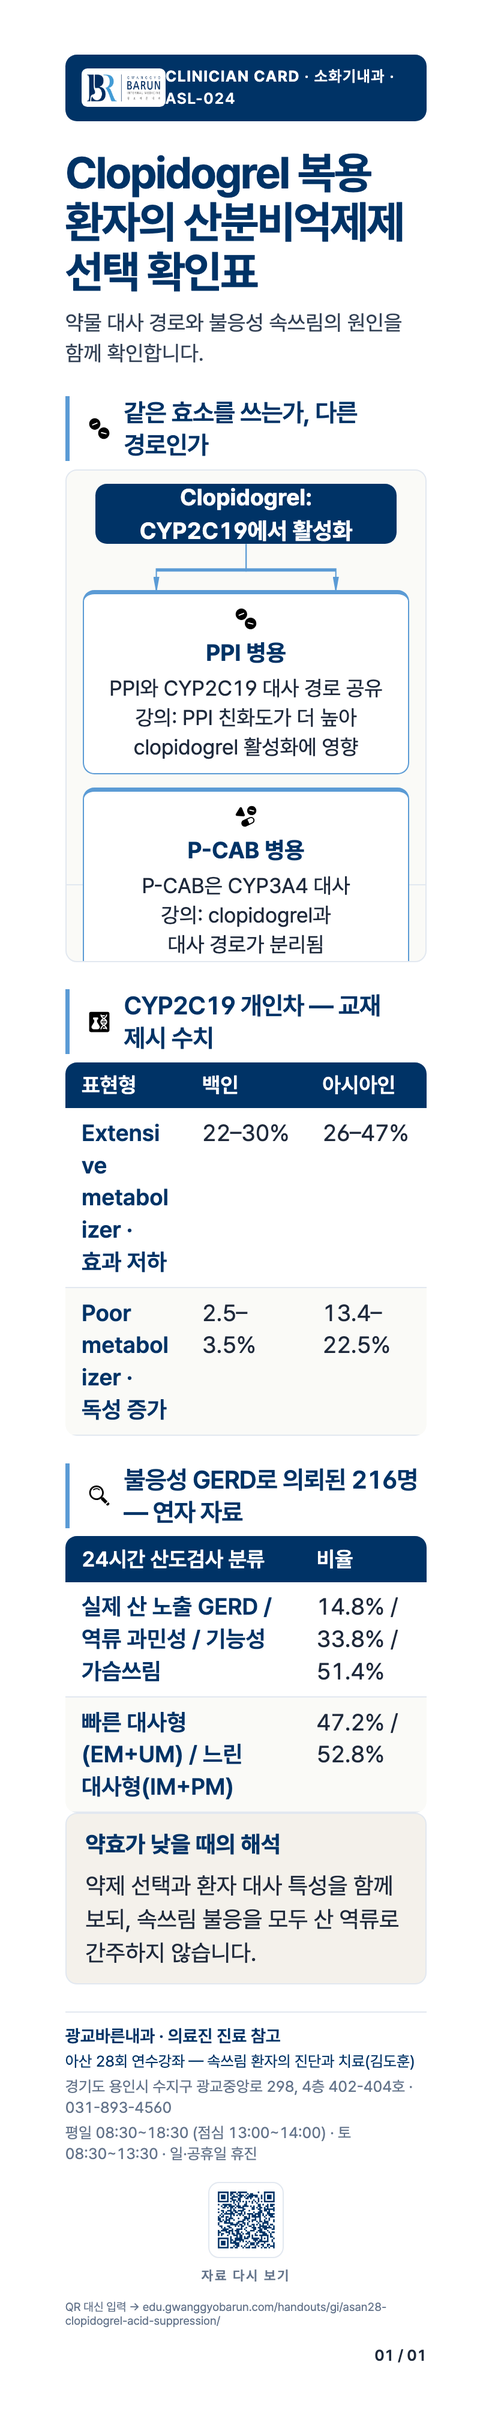
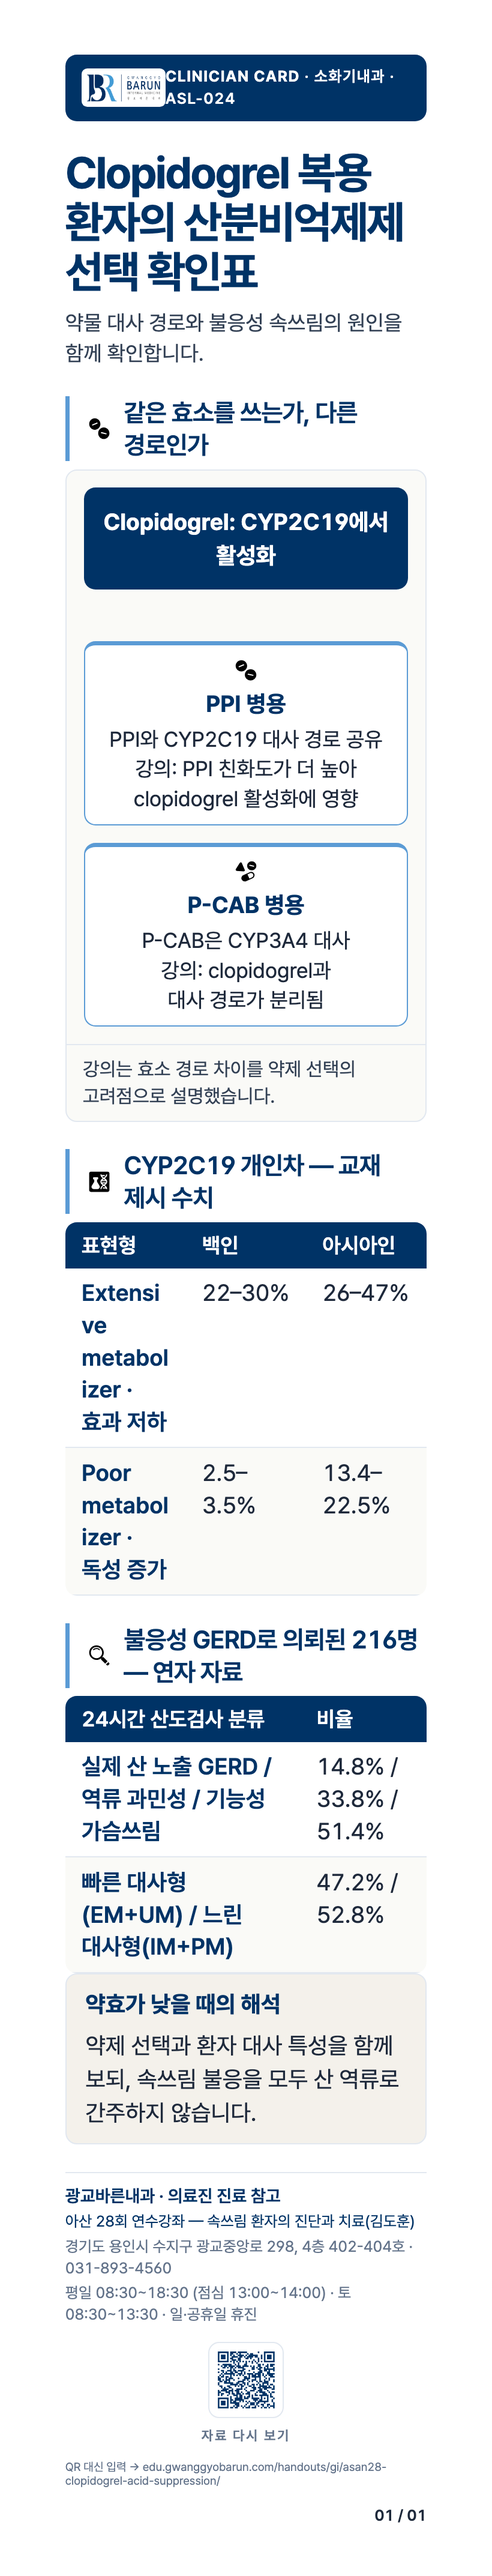
Deploy non-PHI education site 2026-11-03-1300 (417 PDFs, lab excluded)

diff --git a/handouts/gi/asan28-ibs-evaluation-referral/index.html b/handouts/gi/asan28-ibs-evaluation-referral/index.html
@@ -35,7 +35,7 @@ body[data-handout-phone] .page.page .hi{width:20px!important;height:20px!importa
 
 /* Connector geometry follows fixed HTML node tops, regardless of figure height. */
 .diagram>svg{height:100px}.flow-node{min-width:0}.flow-node p{min-width:0;max-width:100%}
-</style><!-- seo:geo2 --><meta name="robots" content="noindex,nofollow">
+/* CRH2-P-1: screen view (desktop, portal preview) - diagram follows content height so the last box and caption are not clipped; print/PDF unchanged */@media screen{body[data-handout-phone] .page.page .content-figure .diagram{position:relative!important;height:auto!important;display:flex!important;flex-direction:column;gap:12px!important}body[data-handout-phone] .page.page .content-figure .diagram>svg{display:none!important}body[data-handout-phone] .page.page .content-figure .flow-top,body[data-handout-phone] .page.page .content-figure .flow-branches{position:static!important;width:auto!important;height:auto!important;margin:12px!important;inset:auto!important}body[data-handout-phone] .page.page .content-figure .flow-top{padding:12px!important}body[data-handout-phone] .page.page .content-figure .flow-branches{display:grid!important;gap:12px!important}}</style><!-- seo:geo2 --><meta name="robots" content="noindex,nofollow">
 </head><body data-handout-phone><div class="page" data-item="ASL-031" data-page="1">
 <header class="page__header hdr"><img src="../../../shared/assets/clinic_logo.png" class="page__logo" alt="광교바른내과"><div class="page__eyebrow"><strong>CLINICIAN CARD</strong> · 소화기내과 · ASL-031</div></header>
 <section class="page__title-block"><h1 class="page__title">성인 IBS 초진·치료 실패 시 검사와 의뢰 선택표</h1><p class="page__subtitle">양성 진단(positive diagnosis)을 기본으로, 경고 증상과 치료 반응에 따라 검사를 고릅니다.</p></section>

diff --git a/handouts/gi/asan28-ibs-drug-reassessment/index.html b/handouts/gi/asan28-ibs-drug-reassessment/index.html
@@ -35,7 +35,7 @@ body[data-handout-phone] .page.page .hi{width:20px!important;height:20px!importa
 
 /* Connector geometry follows fixed HTML node tops, regardless of figure height. */
 .diagram>svg{height:100px}.flow-node{min-width:0}.flow-node p{min-width:0;max-width:100%}
-</style><!-- seo:geo2 --><meta name="robots" content="noindex,nofollow">
+/* CRH2-P-1: screen view (desktop, portal preview) - diagram follows content height so the last box and caption are not clipped; print/PDF unchanged */@media screen{body[data-handout-phone] .page.page .content-figure .diagram{position:relative!important;height:auto!important;display:flex!important;flex-direction:column;gap:12px!important}body[data-handout-phone] .page.page .content-figure .diagram>svg{display:none!important}body[data-handout-phone] .page.page .content-figure .flow-top,body[data-handout-phone] .page.page .content-figure .flow-branches{position:static!important;width:auto!important;height:auto!important;margin:12px!important;inset:auto!important}body[data-handout-phone] .page.page .content-figure .flow-top{padding:12px!important}body[data-handout-phone] .page.page .content-figure .flow-branches{display:grid!important;gap:12px!important}}</style><!-- seo:geo2 --><meta name="robots" content="noindex,nofollow">
 </head><body data-handout-phone><div class="page" data-item="ASL-032" data-page="1">
 <header class="page__header hdr"><img src="../../../shared/assets/clinic_logo.png" class="page__logo" alt="광교바른내과"><div class="page__eyebrow"><strong>CLINICIAN CARD</strong> · 소화기내과 · ASL-032</div></header>
 <section class="page__title-block"><h1 class="page__title">IBS 약제별 목표 증상·재평가·감량 기준표</h1><p class="page__subtitle">한 약제의 목표 증상을 먼저 정하고, 효과와 부작용으로 유지·감량을 판단합니다.</p></section>

diff --git a/handouts/gi/asan28-chronic-pancreatitis-followup/index.html b/handouts/gi/asan28-chronic-pancreatitis-followup/index.html
@@ -35,7 +35,7 @@ body[data-handout-phone] .page.page .hi{width:20px!important;height:20px!importa
 
 /* Connector geometry follows fixed HTML node tops, regardless of figure height. */
 .diagram>svg{height:100px}.flow-node{min-width:0}.flow-node p{min-width:0;max-width:100%}
-</style><!-- seo:geo2 --><meta name="robots" content="noindex,nofollow">
+/* CRH2-P-1: screen view (desktop, portal preview) - diagram follows content height so the last box and caption are not clipped; print/PDF unchanged */@media screen{body[data-handout-phone] .page.page .content-figure .diagram{position:relative!important;height:auto!important;display:flex!important;flex-direction:column;gap:12px!important}body[data-handout-phone] .page.page .content-figure .diagram>svg{display:none!important}body[data-handout-phone] .page.page .content-figure .flow-top,body[data-handout-phone] .page.page .content-figure .flow-branches{position:static!important;width:auto!important;height:auto!important;margin:12px!important;inset:auto!important}body[data-handout-phone] .page.page .content-figure .flow-top{padding:12px!important}body[data-handout-phone] .page.page .content-figure .flow-branches{display:grid!important;gap:12px!important}}</style><!-- seo:geo2 --><meta name="robots" content="noindex,nofollow">
 </head><body data-handout-phone><div class="page" data-item="ASL-030" data-page="1">
 <header class="page__header hdr"><img src="../../../shared/assets/clinic_logo.png" class="page__logo" alt="광교바른내과"><div class="page__eyebrow"><strong>CLINICIAN CARD</strong> · 소화기내과 · ASL-030</div></header>
 <section class="page__title-block"><h1 class="page__title">만성췌장염 외래 추적: 통증·영양·혈당·암 위험 신호</h1><p class="page__subtitle">통증만 보지 말고 외분비기능부전(EPI)·당뇨·암 위험을 함께 봅니다.</p></section>

diff --git a/handouts/gi/asan28-masld-fibrosis-referral/index.html b/handouts/gi/asan28-masld-fibrosis-referral/index.html
@@ -35,7 +35,7 @@ body[data-handout-phone] .page.page .hi{width:20px!important;height:20px!importa
 
 /* Connector geometry follows fixed HTML node tops, regardless of figure height. */
 .diagram>svg{height:100px}.flow-node{min-width:0}.flow-node p{min-width:0;max-width:100%}
-</style><!-- seo:geo2 --><meta name="robots" content="noindex,nofollow">
+/* CRH2-P-1: screen view (desktop, portal preview) - diagram follows content height so the last box and caption are not clipped; print/PDF unchanged */@media screen{body[data-handout-phone] .page.page .content-figure .diagram{position:relative!important;height:auto!important;display:flex!important;flex-direction:column;gap:12px!important}body[data-handout-phone] .page.page .content-figure .diagram>svg{display:none!important}body[data-handout-phone] .page.page .content-figure .flow-top,body[data-handout-phone] .page.page .content-figure .flow-branches{position:static!important;width:auto!important;height:auto!important;margin:12px!important;inset:auto!important}body[data-handout-phone] .page.page .content-figure .flow-top{padding:12px!important}body[data-handout-phone] .page.page .content-figure .flow-branches{display:grid!important;gap:12px!important}}</style><!-- seo:geo2 --><meta name="robots" content="noindex,nofollow">
 </head><body data-handout-phone><div class="page" data-item="ASL-034" data-page="1">
 <header class="page__header hdr"><img src="../../../shared/assets/clinic_logo.png" class="page__logo" alt="광교바른내과"><div class="page__eyebrow"><strong>CLINICIAN CARD</strong> · 소화기내과 · ASL-034</div></header>
 <section class="page__title-block"><h1 class="page__title">MASLD 섬유화 평가·간 전문의 의뢰 카드</h1><p class="page__subtitle">지방증 영상 확인을 기다리지 않고, 위험군에서 FIB-4부터 단계적으로 평가합니다.</p></section>

diff --git a/handouts/gi/asan28-incidental-duct-dilatation/index.html b/handouts/gi/asan28-incidental-duct-dilatation/index.html
@@ -35,7 +35,7 @@ body[data-handout-phone] .page.page .hi{width:20px!important;height:20px!importa
 
 /* Connector geometry follows fixed HTML node tops, regardless of figure height. */
 .diagram>svg{height:100px}.flow-node{min-width:0}.flow-node p{min-width:0;max-width:100%}
-</style><!-- seo:geo2 --><meta name="robots" content="noindex,nofollow">
+/* CRH2-P-1: screen view (desktop, portal preview) - diagram follows content height so the last box and caption are not clipped; print/PDF unchanged */@media screen{body[data-handout-phone] .page.page .content-figure .diagram{position:relative!important;height:auto!important;display:flex!important;flex-direction:column;gap:12px!important}body[data-handout-phone] .page.page .content-figure .diagram>svg{display:none!important}body[data-handout-phone] .page.page .content-figure .flow-top,body[data-handout-phone] .page.page .content-figure .flow-branches{position:static!important;width:auto!important;height:auto!important;margin:12px!important;inset:auto!important}body[data-handout-phone] .page.page .content-figure .flow-top{padding:12px!important}body[data-handout-phone] .page.page .content-figure .flow-branches{display:grid!important;gap:12px!important}}</style><!-- seo:geo2 --><meta name="robots" content="noindex,nofollow">
 </head><body data-handout-phone><div class="page" data-item="ASL-028" data-page="1">
 <header class="page__header hdr"><img src="../../../shared/assets/clinic_logo.png" class="page__logo" alt="광교바른내과"><div class="page__eyebrow"><strong>CLINICIAN CARD</strong> · 소화기내과 · ASL-028</div></header>
 <section class="page__title-block"><h1 class="page__title">우연히 발견된 담관·췌관 확장: 추가 검사와 의뢰 판단</h1><p class="page__subtitle">담관과 췌관을 구분하고, 이전 영상과 변화 여부를 비교합니다.</p></section>

diff --git a/handouts/gi/asan28-masld-selective-testing/index.html b/handouts/gi/asan28-masld-selective-testing/index.html
@@ -35,7 +35,7 @@ body[data-handout-phone] .page.page .hi{width:20px!important;height:20px!importa
 
 /* Connector geometry follows fixed HTML node tops, regardless of figure height. */
 .diagram>svg{height:100px}.flow-node{min-width:0}.flow-node p{min-width:0;max-width:100%}
-</style><!-- seo:geo2 --><meta name="robots" content="noindex,nofollow">
+/* CRH2-P-1: screen view (desktop, portal preview) - diagram follows content height so the last box and caption are not clipped; print/PDF unchanged */@media screen{body[data-handout-phone] .page.page .content-figure .diagram{position:relative!important;height:auto!important;display:flex!important;flex-direction:column;gap:12px!important}body[data-handout-phone] .page.page .content-figure .diagram>svg{display:none!important}body[data-handout-phone] .page.page .content-figure .flow-top,body[data-handout-phone] .page.page .content-figure .flow-branches{position:static!important;width:auto!important;height:auto!important;margin:12px!important;inset:auto!important}body[data-handout-phone] .page.page .content-figure .flow-top{padding:12px!important}body[data-handout-phone] .page.page .content-figure .flow-branches{display:grid!important;gap:12px!important}}</style><!-- seo:geo2 --><meta name="robots" content="noindex,nofollow">
 </head><body data-handout-phone><div class="page" data-item="ASL-035" data-page="1">
 <header class="page__header hdr"><img src="../../../shared/assets/clinic_logo.png" class="page__logo" alt="광교바른내과"><div class="page__eyebrow"><strong>CLINICIAN CARD</strong> · 소화기내과 · ASL-035</div></header>
 <section class="page__title-block"><h1 class="page__title">MASLD 의심·간효소 이상: 일차진료 선택검사와 의뢰</h1><p class="page__subtitle">지방간이 보여도 다른 원인과 동반 질환을 함께 평가합니다.</p></section>

diff --git a/handouts/gi/asan28-gi-neuromodulator-check/index.html b/handouts/gi/asan28-gi-neuromodulator-check/index.html
@@ -35,7 +35,7 @@ body[data-handout-phone] .page.page .hi{width:20px!important;height:20px!importa
 
 /* Connector geometry follows fixed HTML node tops, regardless of figure height. */
 .diagram>svg{height:100px}.flow-node{min-width:0}.flow-node p{min-width:0;max-width:100%}
-</style><!-- seo:geo2 --><meta name="robots" content="noindex,nofollow">
+/* CRH2-P-1: screen view (desktop, portal preview) - diagram follows content height so the last box and caption are not clipped; print/PDF unchanged */@media screen{body[data-handout-phone] .page.page .content-figure .diagram{position:relative!important;height:auto!important;display:flex!important;flex-direction:column;gap:12px!important}body[data-handout-phone] .page.page .content-figure .diagram>svg{display:none!important}body[data-handout-phone] .page.page .content-figure .flow-top,body[data-handout-phone] .page.page .content-figure .flow-branches{position:static!important;width:auto!important;height:auto!important;margin:12px!important;inset:auto!important}body[data-handout-phone] .page.page .content-figure .flow-top{padding:12px!important}body[data-handout-phone] .page.page .content-figure .flow-branches{display:grid!important;gap:12px!important}}</style><!-- seo:geo2 --><meta name="robots" content="noindex,nofollow">
 </head><body data-handout-phone><div class="page" data-item="ASL-023" data-page="1">
 <header class="page__header hdr"><img src="../../../shared/assets/clinic_logo.png" class="page__logo" alt="광교바른내과"><div class="page__eyebrow"><strong>CLINICIAN CARD</strong> · 소화기내과 · ASL-023</div></header>
 <section class="page__title-block"><h1 class="page__title">위장관 신경조절제: 질환별 용량·안전성·청구 확인표</h1><p class="page__subtitle">주증상을 나누고, 저용량부터 반응을 보며 조절합니다.</p></section>

diff --git a/handouts/gi/asan28-clopidogrel-acid-suppression/index.html b/handouts/gi/asan28-clopidogrel-acid-suppression/index.html
@@ -35,7 +35,7 @@ body[data-handout-phone] .page.page .hi{width:20px!important;height:20px!importa
 
 /* Connector geometry follows fixed HTML node tops, regardless of figure height. */
 .diagram>svg{height:100px}.flow-node{min-width:0}.flow-node p{min-width:0;max-width:100%}
-</style><!-- seo:geo2 --><meta name="robots" content="noindex,nofollow">
+/* CRH2-P-1: screen view (desktop, portal preview) - diagram follows content height so the last box and caption are not clipped; print/PDF unchanged */@media screen{body[data-handout-phone] .page.page .content-figure .diagram{position:relative!important;height:auto!important;display:flex!important;flex-direction:column;gap:12px!important}body[data-handout-phone] .page.page .content-figure .diagram>svg{display:none!important}body[data-handout-phone] .page.page .content-figure .flow-top,body[data-handout-phone] .page.page .content-figure .flow-branches{position:static!important;width:auto!important;height:auto!important;margin:12px!important;inset:auto!important}body[data-handout-phone] .page.page .content-figure .flow-top{padding:12px!important}body[data-handout-phone] .page.page .content-figure .flow-branches{display:grid!important;gap:12px!important}}</style><!-- seo:geo2 --><meta name="robots" content="noindex,nofollow">
 </head><body data-handout-phone><div class="page" data-item="ASL-024" data-page="1">
 <header class="page__header hdr"><img src="../../../shared/assets/clinic_logo.png" class="page__logo" alt="광교바른내과"><div class="page__eyebrow"><strong>CLINICIAN CARD</strong> · 소화기내과 · ASL-024</div></header>
 <section class="page__title-block"><h1 class="page__title">Clopidogrel 복용 환자의 산분비억제제 선택 확인표</h1><p class="page__subtitle">약물 대사 경로와 불응성 속쓰림의 원인을 함께 확인합니다.</p></section>
